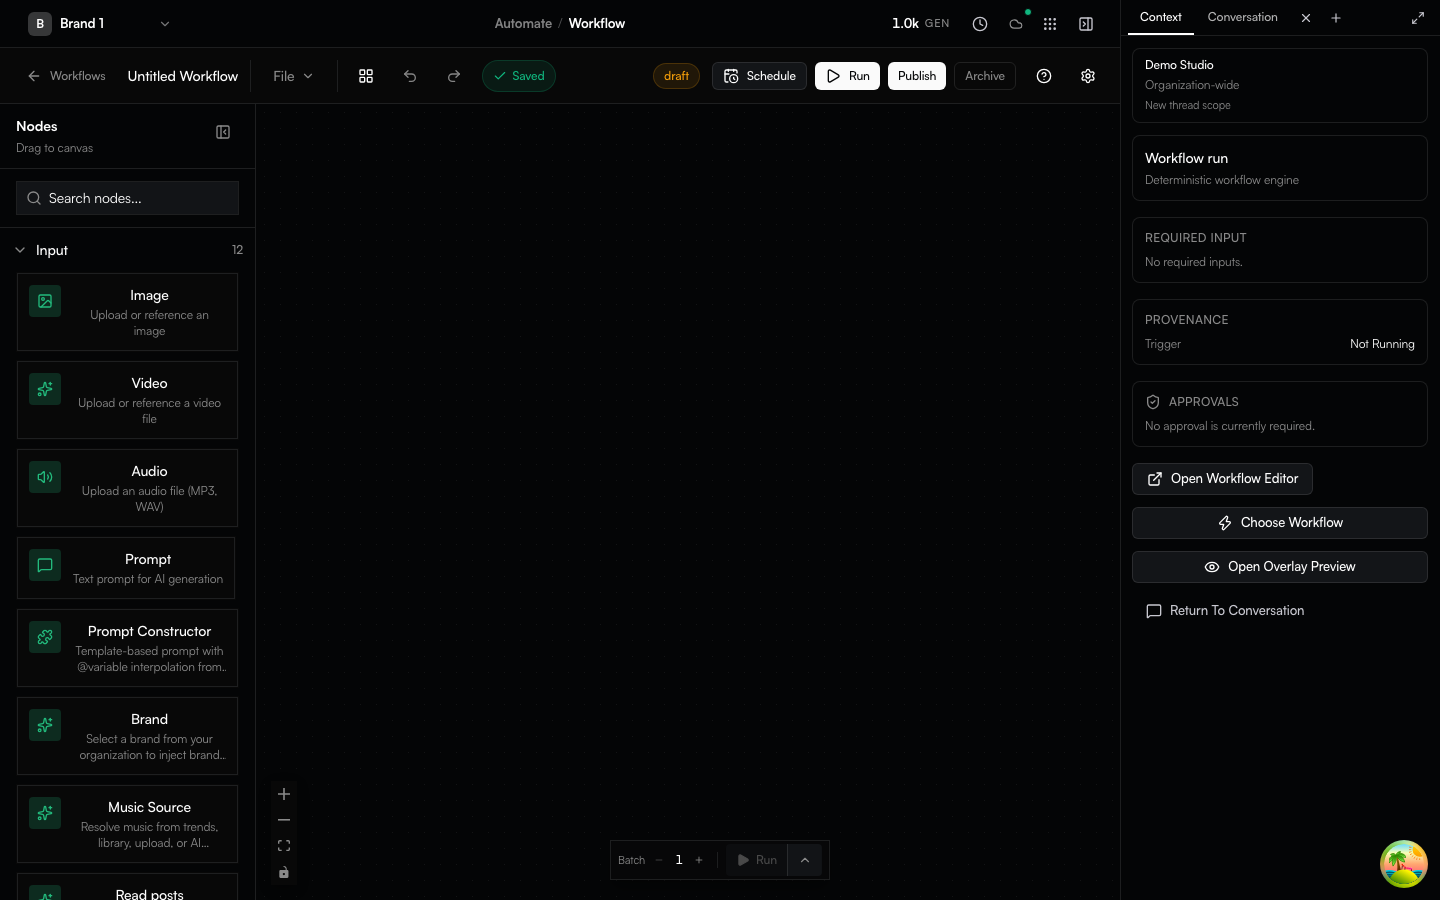
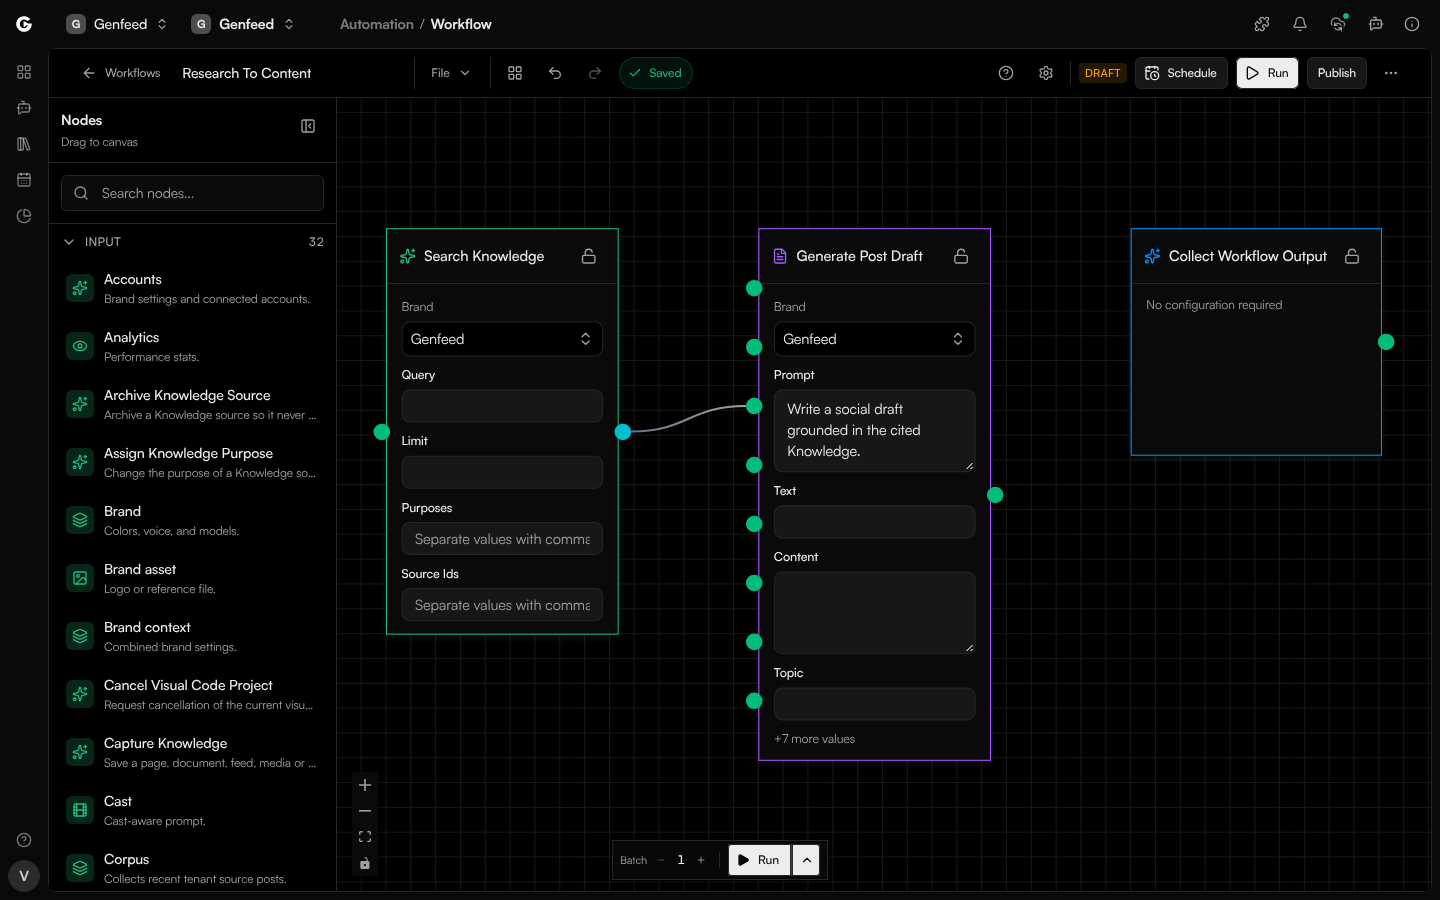
docs(readme): replace mocked screenshots with real app captures (#8437)
<!-- claude-projects-attribution: {"github_login":"VincentShipsIt"} -->
_Requested by **Vincent** · [project
thread](https://claude.ai/code/project/chan_018upQtv1MGTSmavHPY7wtuR?thread=cmsg_018upQtv1MGTSmavHPY7wtuR383Q9iTWz9ahuqz1VwoFjP)_

Replaces #8436, which GitGuardian flagged for a demo-password literal in
the capture script. The script now generates a throwaway password per
run.

## Summary

The three README screenshots are now captures of the real self-hosted
app (v0.2.17 release image, real API, real PostgreSQL), not Playwright
mocks. A star CTA sits directly under the badges, and no "Mocked" label
is left in the README.

`bun run readme:capture` now runs `scripts/readme-live/capture.ts`: it
signs up a demo account through the real sign-up form, skips onboarding,
creates the "Research to Content" workflow from the real template
gallery, seeds demo posts and an agent thread (`seed.sql`), then shoots
1440x900 dark frames. The old mocked capture only serves the website
product set now.

## Related issue

Refs #6949. The generation GIF is not in this PR; it follows separately.

## Scope

README, three PNGs, the new `scripts/readme-live/` capture, and the
`readme:capture` script pointer. No app code changes.

## Verification

- Ran the full capture three times from a fresh Postgres and data volume
(`docker compose down -v`, `up -d`, `bun run readme:capture`); the
committed frames come from the last run.
- `biome check` on the new script is clean.
[…]

diff --git a/scripts/readme-live/capture.ts b/scripts/readme-live/capture.ts
@@ -1,0 +1,188 @@
+#!/usr/bin/env bun
+/**
+ * Capture the README screenshots from a real running self-hosted Genfeed.
+ *
+ * Nothing is intercepted: the browser talks to the real web app and API. The
+ * script signs up a demo account through the real sign-up form, skips
+ * onboarding, creates a workflow from a real template, seeds demo posts and an
+ * agent conversation into PostgreSQL (`seed.sql`), then shoots 1440x900 frames.
+ *
+ * Start the stack first (release bundle: `docker compose up -d`), on a fresh
+ * volume so the demo account does not exist yet. Then:
+ *
+ *   bun run readme:capture
+ *
+ * Env: APP_BASE_URL (default http://localhost:3000), POSTGRES_CONTAINER
+ * (default genfeed-selfhosted-postgres), POSTGRES_USER and POSTGRES_DB
+ * (default genfeed), PLAYWRIGHT_CHROMIUM_EXECUTABLE (a Chromium binary, when
+ * the installed Playwright browsers do not match this repo's version).
+ */
+import { spawnSync } from 'node:child_process';
+import { randomUUID } from 'node:crypto';
+import { readFileSync } from 'node:fs';
+import path from 'node:path';
+import { chromium, type Page } from '@playwright/test';
+
+const repoRoot = path.resolve(import.meta.dir, '../..');
+const outputDir = path.join(repoRoot, 'docs/assets/readme');
+
+/** Reads a script option from the environment; not a turbo task input. */
+function envOrDefault(name: string, fallback: string): string {
+  return process.env[name] ?? fallback;
+}
+
+const appBaseUrl = envOrDefault('APP_BASE_URL', 'http://localhost:3000');
+const postgresContainer = envOrDefault(
+  'POSTGRES_CONTAINER',
+  'genfeed-selfhosted-postgres',
+);
+const postgresUser = envOrDefault('POSTGRES_USER', 'genfeed');
+const postgresDatabase = envOrDefault('POSTGRES_DB', 'genfeed');
+const chromiumExecutable =
+  envOrDefault('PLAYWRIGHT_CHROMIUM_EXECUTABLE', '') || undefined;
+
+const DEMO_EMAIL = 'demo@genfeed.local';
+// Throwaway account on a local container: a fresh password per run keeps a
+// credential literal out of the repository.
+const DEMO_PASSWORD = `Demo-${randomUUID()}`;
+const DEMO_NAME = 'Vincent Demo';
+const AGENT_THREAD_ID = 'cmdemothread000000000001';
+const SETTLE_MS = 3000;
+const WORKFLOW_TEMPLATE_TITLE = /^Research to Content$/i;
+
+function runPsql(args: string[], input?: string): string {
+  const result = spawnSync(
+    'docker',
+    [
+      'exec',
+      '-i',
+      postgresContainer,
+      'psql',
+      '-U',
+      postgresUser,
+      '-d',
+      postgresDatabase,
+      '-v',
+      'ON_ERROR_STOP=1',
+      ...args,
+    ],
+    { encoding: 'utf8', input },
+  );
+
+  if (result.status !== 0) {
+    throw new Error(`psql failed: ${result.stderr || result.stdout}`);
+  }
+
+  return result.stdout;
+}
+
+async function signUp(page: Page): Promise<void> {
+  await page.goto(`${appBaseUrl}/sign-up`, { waitUntil: 'networkidle' });
+  await page.getByText('Email & Password').click();
+  await page.locator('input[type=email]').waitFor();
+  await page.locator('input').first().fill(DEMO_NAME);
+  await page.locator('input[type=email]').fill(DEMO_EMAIL);
+  await page.locator('input[type=password]').fill(DEMO_PASSWORD);
+  await page.getByRole('button', { name: 'Create Account' }).click();
+  await page.waitForURL(/\/onboarding\//, { timeout: 60_000 });
+}
+
+/** Returns the `<org>/<brand>` path prefix of the demo workspace. */
+async function skipOnboarding(page: Page): Promise<string> {
+  await page.getByText('Skip Onboarding').first().click();
+  await page.getByRole('button', { name: 'Skip Onboarding' }).last().click();
+  await page.waitForURL(/\/[^/]+\/[^/]+\/workspace\/overview/, {
+    timeout: 60_000,
+  });
+
+  const match = /^\/([^/]+)\/([^/]+)\//.exec(new URL(page.url()).pathname);
+  if (!match) {
+    throw new Error(`Cannot read workspace slugs from ${page.url()}`);
+  }
+
+  return `${match[1]}/${match[2]}`;
+}
+
+async function createWorkflowFromTemplate(
+  page: Page,
+  workspace: string,
+): Promise<string> {
+  await page.goto(`${appBaseUrl}/${workspace}/automation/workflows`, {
+    waitUntil: 'networkidle',
+  });
+  await page.getByText('Templates').first().click();
+  // Template cards load in no fixed order, so pick the card by its title: the
+  // nearest ancestor of the title that holds a "Use template" button.
+  const card = page
+    .getByText(WORKFLOW_TEMPLATE_TITLE)
+    .first()
+    .locator('xpath=ancestor::*[.//button][1]');
+  await card.getByRole('button', { name: 'Use Template' }).click();
+  // The Templates tab lives at /automation/workflows/templates; wait for the
+  // new workflow's own editor route instead.
+  await page.waitForURL(
+    (url) =>
+      /\/automation\/workflows\/[^/]+$/.test(url.pathname) &&
+      !url.pathname.endsWith('/templates'),
+    { timeout: 60_000 },
+  );
+
+  return page.url();
+}
+
+function seedDemoContent(workspace: string): void {
+  const [orgSlug, brandSlug] = workspace.split('/');
+  runPsql(
+    [
+      '-v',
+      `org_slug=${orgSlug}`,
+      '-v',
+      `brand_slug=${brandSlug}`,
+      '-v',
+      `demo_email=${DEMO_EMAIL}`,
+    ],
+    readFileSync(path.join(import.meta.dir, 'seed.sql'), 'utf8'),
+  );
+}
+
+async function shoot(page: Page, url: string, fileName: string): Promise<void> {
+  await page.goto(url, { waitUntil: 'networkidle' });
+  await page.waitForTimeout(SETTLE_MS);
+  await page.screenshot({ path: path.join(outputDir, fileName) });
+  process.stdout.write(`wrote docs/assets/readme/${fileName}\n`);
+}
+
+async function main(): Promise<void> {
+  const browser = await chromium.launch({
+    executablePath: chromiumExecutable,
+  });
+  const context = await browser.newContext({
+    colorScheme: 'dark',
+    deviceScaleFactor: 1,
+    viewport: { height: 900, width: 1440 },
+  });
+  const page = await context.newPage();
+
+  try {
+    await signUp(page);
+    const workspace = await skipOnboarding(page);
+    const workflowUrl = await createWorkflowFromTemplate(page, workspace);
+    seedDemoContent(workspace);
+
+    await shoot(
+      page,
+      `${appBaseUrl}/${workspace}/agent/${AGENT_THREAD_ID}`,
+      'agent-shell.png',
+    );
+    await shoot(
+      page,
+      `${appBaseUrl}/${workspace}/publishing/posts`,
+      'publishing-desk.png',
+    );
+    await shoot(page, workflowUrl, 'automation-workflows.png');
+  } finally {
+    await browser.close();
+  }
+}
+
+await main();

diff --git a/scripts/capture-readme-assets.ts b/scripts/capture-readme-assets.ts
@@ -1,12 +1,13 @@
 #!/usr/bin/env bun
 /**
- * Capture mocked README PNGs via Playwright app-core (no live backend).
+ * Capture the mocked website product screenshots via Playwright app-core (no
+ * live backend). README screenshots come from `bun run readme:capture`.
  *
  * Starts `apps/app` with the hermetic Playwright auth bypass, intercepts
  * mock CDN media with local placeholder images, and writes frames to
- * docs/assets/readme/.
+ * apps/website/public/products/.
  *
- * Usage: bun run readme:capture
+ * Usage: bun run website:capture-products
  */
 import { spawn } from 'node:child_process';
 import { readdir, unlink } from 'node:fs/promises';
@@ -27,6 +28,7 @@ const child = spawn(
     cwd: repoRoot,
     env: {
       ...process.env,
+      CAPTURE_SET: 'website',
       // biome-ignore lint/suspicious/noUndeclaredEnvVars: not a turbo task
       APP_BASE_URL: process.env.APP_BASE_URL || 'http://127.0.0.1:3000',
       NEXT_PUBLIC_PLAYWRIGHT_BANNER_SKIP: 'true',

diff --git a/README.md b/README.md
@@ -8,6 +8,9 @@ connected channels. Work in Genfeed or connect the AI agent you already use.
 [![CI](https://github.com/genfeedai/genfeed.ai/actions/workflows/ci.yml/badge.svg?branch=master)](https://github.com/genfeedai/genfeed.ai/actions/workflows/ci.yml?query=branch%3Amaster)
 [![Release](https://img.shields.io/github/v/release/genfeedai/genfeed.ai?label=release)](https://github.com/genfeedai/genfeed.ai/releases/latest)
 [![License: AGPL-3.0-or-later](https://img.shields.io/badge/license-AGPL--3.0--or--later-blue.svg)](LICENSE)
+[![GitHub stars](https://img.shields.io/github/stars/genfeedai/genfeed.ai?style=social)](https://github.com/genfeedai/genfeed.ai)
+
+**If Genfeed is useful, [star it on GitHub](https://github.com/genfeedai/genfeed.ai) ⭐ so others can find it.**
 
 <!-- TODO(demo): add the pinned demo video/GIF here (brief in → agent drafts →
 waits for approval → publishes). Real footage only; no mock media. -->
@@ -19,8 +22,6 @@ npx @genfeedai/create my-genfeed
 Needs Docker Compose v2 and Node.js 24. The wizard verifies the release bundle,
 asks for your [OpenRouter API key](https://openrouter.ai/keys), then starts it. Install guide: [genfeed.ai/self-hosted](https://genfeed.ai/self-hosted)
 · [docs.genfeed.ai](https://docs.genfeed.ai/self-host/installation).
-
-If Genfeed is useful, a ⭐ on GitHub helps others find it.
 
 > [!WARNING]
 > Genfeed is `0.x` and under active development. Breaking changes ship with an
@@ -148,17 +149,21 @@ The standard MCP preset is approval-first: an agent can generate, draft, and sch
 publishing waits for a human. What each surface exposes and why is in
 [Agent Surface](docs/agent-surface.md).
 
-![Agent conversation shell in a mocked Community workspace](docs/assets/readme/agent-shell.png)
+Captured from the real self-hosted app, v0.2.17, 1440×900 dark theme. The
+posts and the agent conversation are seeded demo content, not a live
+generation. Regenerate with `bun run readme:capture`.
 
-_Mocked Playwright capture of the agent conversation shell. Fixture data, not a live generation._
+![Agent conversation in Genfeed: a brief for a launch week recap and the agent's drafted X and LinkedIn posts](docs/assets/readme/agent-shell.png)
 
-![Publishing desk in a mocked Community workspace](docs/assets/readme/publishing-desk.png)
+_Agent: a brief in, drafts out. Both posts wait in Publishing for approval._
 
-_Mocked Playwright capture of the Publish desk._
+![Publishing posts list with scheduled, draft and published posts across X, LinkedIn, Instagram, TikTok and YouTube](docs/assets/readme/publishing-desk.png)
 
-![Visual workflow authoring in a mocked Community workspace](docs/assets/readme/automation-workflows.png)
+_Publish: scheduled, draft and published posts in one list._
 
-_Mocked Playwright capture of Automate workflow authoring._
+![Visual workflow editor showing the Research to Content workflow: Search Knowledge, Generate Post Draft, Collect Workflow Output](docs/assets/readme/automation-workflows.png)
+
+_Automate: the Research to Content workflow template in the visual editor._
 
 ## Capabilities
 
